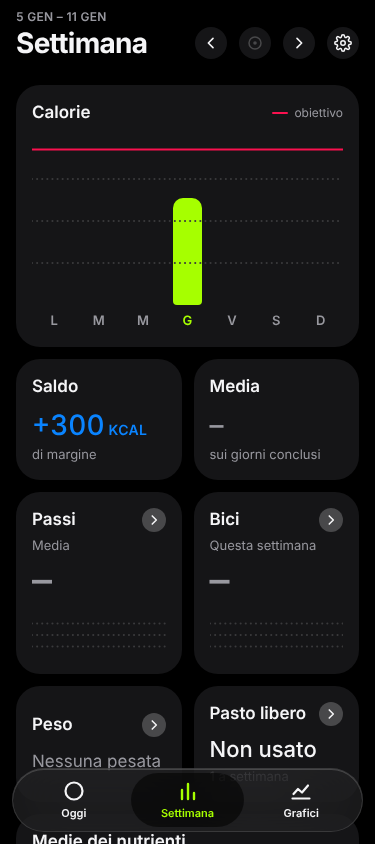
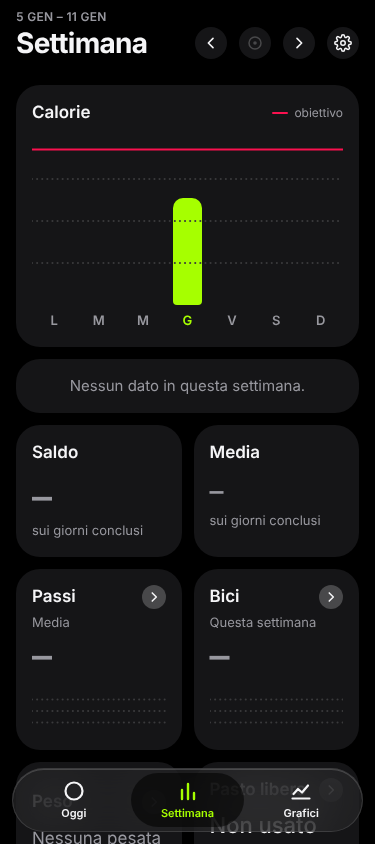
T6b.4 saldo della Settimana sui giorni conclusi
Claude-Session: https://claude.ai/code/session_01TQMVgMkE62napq6RZvzJ62

diff --git a/src/engine/week.ts b/src/engine/week.ts
@@ -27,7 +27,7 @@ export interface NutrientAverages {
 
 export interface WeekSummary {
   days: WeekDayRow[];
-  /** Saldo della regola (§3.3, con il tetto al margine) fino al giorno più recente con pasti, questo compreso; null se nessun giorno ha pasti. */
+  /** Saldo mostrato in Settimana (§3.3): la regola, con il tetto al margine, sui soli giorni conclusi con pasti (oggi escluso); null se non ce n'è nessuno. */
   balance: number | null;
   /** Media delle kcal reali sui giorni con pasti, escluso oggi (è in corso: abbasserebbe la media); null se nessun giorno è valido (§3.8). */
   avgKcal: number | null;
@@ -50,7 +50,7 @@ function mean(values: number[]): number | null {
 /**
  * Riepilogo della settimana (lunedì-domenica) che contiene `date`. I giorni mancanti sono considerati vuoti.
  * Se `today` è dato, l'obiettivo dei giorni dopo oggi è l'anteprima di §3.3 (`previewDayTarget`) e la media delle kcal
- * esclude il giorno di oggi (§3.8). Senza `today` nessun giorno è escluso. Il motore non legge la data da solo.
+ * e il saldo mostrato escludono il giorno di oggi (§3.8, §3.3). Senza `today` nessun giorno è escluso. Il motore non legge la data da solo.
  */
 export function weekSummary(date: DateKey, knownDays: readonly Day[], settings: WeekSettings, today?: DateKey): WeekSummary {
   const dates = weekDates(date);
@@ -67,7 +67,10 @@ export function weekSummary(date: DateKey, knownDays: readonly Day[], settings: 
     target: (today !== undefined && d.date > today ? previewDayTarget(d.date, today, days, settings) : dayTarget(d.date, days, settings)).total,
   }));
 
-  const balance = eatenDays.length === 0 ? null : runBalance(eatenDays, settings);
+  // Saldo mostrato: solo i giorni conclusi, cioè precedenti a oggi (oggi è in corso e i pasti ancora da fare sembrerebbero margine).
+  // Senza `today` nessun giorno è escluso. La regola dell'obiettivo del giorno (`weekBalanceBefore`) non cambia.
+  const concludedDays = eatenDays.filter((d) => today === undefined || d.date < today);
+  const balance = concludedDays.length === 0 ? null : runBalance(concludedDays, settings);
 
   const avgOf = (pick: (d: Day) => number): number | null => mean(eatenDays.map(pick));
   const avgNutrients: NutrientAverages | null =

diff --git a/src/engine/week.test.ts b/src/engine/week.test.ts
@@ -117,3 +117,32 @@ describe("media kcal sui giorni conclusi (§3.8, casi W, X, Y)", () => {
     expect(weekSummary(GIO, days, s, GIO).avgNutrients?.protein).toBe(60);
   });
 });
+
+describe("saldo mostrato in Settimana sui giorni conclusi (§3.3, casi AJ, AK, AL, AM)", () => {
+  it("caso AJ: lunedì 1.900; oggi è martedì, mangiate finora 600 → +200 (non 300)", () => {
+    const days = [day(LUN, [meal("a", 1900)]), day(MAR, [meal("b", 600)])];
+    expect(weekSummary(MAR, days, s, MAR).balance).toBe(200);
+  });
+  it("caso AK: oggi è lunedì, mangiate finora 600 → nessun saldo (trattino)", () => {
+    expect(weekSummary(LUN, [day(LUN, [meal("a", 600)])], s, LUN).balance).toBeNull();
+  });
+  it("caso AL: lunedì 2.500; oggi è martedì senza pasti → −400", () => {
+    expect(weekSummary(MAR, [day(LUN, [meal("a", 2500)])], s, MAR).balance).toBe(-400);
+  });
+  it("caso AM: settimana passata, lunedì 1.900 e domenica 2.000, altri giorni vuoti → +300 (tetto)", () => {
+    const days = [day(LUN, [meal("a", 1900)]), day("2026-01-11", [meal("d", 2000)])];
+    expect(weekSummary(LUN, days, s, "2026-01-20").balance).toBe(300);
+  });
+  it("oggi con pasti non entra nel saldo, anche se è l'unico giorno mangiato prima di un debito", () => {
+    // lunedì 2.500 (−400) e oggi 100: il saldo resta −400, oggi non lo riporta a +1.600 né a +300
+    const days = [day(LUN, [meal("a", 2500)]), day(MAR, [meal("b", 100)])];
+    expect(weekSummary(MAR, days, s, MAR).balance).toBe(-400);
+  });
+  it("senza `today` nessun giorno è escluso", () => {
+    expect(weekSummary(MAR, [day(LUN, [meal("a", 1900)]), day(MAR, [meal("b", 600)])], s).balance).toBe(300);
+  });
+  it("la funzione del saldo dell'obiettivo non cambia: l'obiettivo di martedì usa ancora i giorni precedenti", () => {
+    const days = [day(LUN, [meal("a", 2500)]), day(MAR, [meal("b", 600)])];
+    expect(weekSummary(MAR, days, s, MAR).days[1].target).toBe(2000);
+  });
+});

diff --git a/src/app/settimana-screen.tsx b/src/app/settimana-screen.tsx
@@ -74,7 +74,7 @@ export function SettimanaScreen() {
               <div className="mt-3">
                 {s.balance === null ? <Num value={dash} size="lg" tone="testo-secondario" /> : <Num value={formatSigned(s.balance)} unit="kcal" size="md" tone={s.balance > 0 ? "in-obiettivo" : "testo"} />}
               </div>
-              {s.balance !== null && <p className={sub}>{s.balance < 0 ? "da recuperare" : "di margine"}</p>}
+              <p className={sub}>sui giorni conclusi</p>
             </Card>
             <Card title="Media">
               <div className="mt-3">{s.avgKcal === null ? <Num value={dash} size="md" tone="testo-secondario" /> : <Num value={formatNumber(s.avgKcal)} unit="kcal" size="md" />}</div>

diff --git a/docs/DIARIO.md b/docs/DIARIO.md
@@ -82,6 +82,7 @@ Una riga per task chiuso.
 - T6b.1 · fatto · misurati con `npm run prova-comandi` Oggi (con pasti/senza/futuro), Settimana (con dati/senza/appena iniziata, anche altezza delle schede Calorie, Passi, Bici), scheda del piatto (AI↔Manuale, caricamento, errore), pannello Aggiungi (prima/dopo la proposta), Impostazioni (elenco↔pagina). Spostati e corretti con `tall` (altezza fissa, il corpo scorre dentro): Aggiungi, Modifica piatto, Impostazioni; la prova sul codice precedente falliva (12 controlli). Oggi e Settimana già fermi. Non corretto, da riferire: la scheda Calorie di Oggi è alta 227,5 px con la riga di composizione e 196 senza (BRIEF §2: la riga c'è solo se c'è qualcosa oltre alla base).
 - T6b.2 · fatto · «Attiva»/«Attivo» in Collegamenti nel colore In obiettivo (`valueTone` di `ValueRow`); nello scorrimento ogni azione è una tessera separata (raggio tessera, spazio di 8 px) nel componente condiviso `SwipeRow`, quindi Preferiti e Oggi (e gli elenchi dei pannelli della Settimana) hanno lo stesso aspetto; «Calorie di base» calcolate in Obiettivi mostrate «2.140» finché il campo non ha il fuoco (`shown` di `RowInput`), kcal della proposta AI col punto (`kcalText`); test del formato su 999, 1000, 2140, 12345; ricerca a mano dei numeri non formattati in `src/app`: nessun altro caso. `tools/prova-scorrimento.mjs`: il passo 7 tocca la parte visibile della riga aperta.
 - T6b.3 · fatto · `oggi-dopo-modifica-settimana` riparato (era lo scenario: dalla fase 6 si elimina scorrendo e l'etichetta è «Elimina il valore di Giovedì 8»; nessun difetto dell'app); `tools/screens.mjs` prosegue dopo uno scenario rotto, elenca i falliti in fondo (`XX … SCENARIO FALLITO`) ed esce con errore (provato con uno scenario volutamente rotto, poi tolto); rigenerati tutti i 16 scenari `nav-*` e `pasti-*` (10 PNG cambiati: nav-avviso-salute, nav-fine-pagina-375, nav-impostazioni-settimana, nav-intestazione-375, nav-oggi-altro-giorno, nav-oggi, pasti-libero-piu-piatti, pasti-quattro, pasti-tre-piatti, pasti-un-piatto).
+- T6b.4 · fatto · `weekSummary`: il saldo mostrato conta solo i giorni con pasti precedenti a oggi (senza `today` nessuno escluso); `runBalance`/`weekBalanceBefore` e i test esistenti invariati; nuovi test AJ (+200), AK (trattino), AL (−400), AM (+300) e tre di contorno. Scheda Saldo: «sui giorni conclusi» al posto di «di margine» / «da recuperare»; scenari `settimana-saldo-conclusi` e `settimana-saldo-trattino`.
 - T6.7 · fatto · `docs/REPORT-FASE-6.md` scritto; pull request verso main aperta a fine fase.
 
 ## Decisioni da confermare
@@ -188,6 +189,7 @@ Una riga per task chiuso.
 - Pannelli di inserimento (T6.4): nelle sotto-schermate di Aggiungi (Preferiti, Pesata, Uscita in bici) la X in alto a sinistra torna alla schermata principale di Aggiungi (non chiude tutto), come uno strato; il tasto Esc fa lo stesso. In una pagina interna dei pannelli della Settimana resta la freccia ‹. «Salva nei preferiti» del pannello Salva pasto è un tasto pieno nel corpo (non «Salva» nell'intestazione) per seguire TESTI.md. La riga «Pasto» è la scelta nativa del telefono (un menu a tendina di sistema), non quattro tasti. Il «+» dei Preferiti è nel colore Comando su fondo Comando al 20 %. «Giorno» dell'Uscita in bici usa il calendario nativo (negli screenshot appare mm/gg/aaaa per la lingua del browser di prova). Sul giorno futuro scritto a mano (non scelto dal calendario) «Salva» non salva e la riga Giorno mostra l'errore. L'importazione dei dati dal dispositivo (pannello «Importa») non è stata ridisegnata qui: non è un pannello di inserimento; resta per T6.5 se serve.
 - Impostazioni (T6.5): «Esporta i dati» nella prima pagina è una riga nel colore Comando che apre la pagina Dati (non scarica da sola, perché i file sono due). «Stime di oggi» e «Modello» compaiono solo se il server li conosce (stima attiva e, per il conteggio, accesso con Supabase). In «Importa i dati» il tasto «Rimuovi da questo dispositivo» è un tasto pieno come gli altri: il tasto pieno rosso non esiste nei componenti di §10.3.
 - Pulizia (T6.6): eccezioni del controllo di stile: `#000000` in `layout.tsx` (`themeColor`) e `manifest.ts` (i metadati non leggono le variabili CSS) e `font-mono` per il codice di Salute in Collegamenti. Il controllo dei testi guarda solo le schermate (`.tsx` in `src/app`): nomi interni come «libero» e «manuale» (valori di tipi e modalità) non sono testi mostrati e restano fuori dalla lista.
+- Saldo della Settimana (T6b.4): la dicitura «sui giorni conclusi» ha sostituito «di margine» / «da recuperare» sotto il numero (scelta più semplice, «come nella scheda Media»); il segno del numero dice se è margine o debito. Da confermare se si vogliono tenere anche le due diciture.
 
 ## Non verificato
 

diff --git a/docs/TASKS.md b/docs/TASKS.md
@@ -639,7 +639,7 @@ Stessa regola, cercata dove non è stata segnalata. Si controlla, non si ridiseg
 - Lo script non si ferma più al primo scenario rotto: prosegue ed elenca alla fine quelli falliti, uscendo con errore.
 - Si rigenerano i 13 scenari `nav-*` e `pasti-*` rimasti alla versione precedente alla fase 6. Nel report: l'elenco dei file rigenerati.
 
-### T6b.4 Saldo della Settimana sui giorni conclusi · da fare
+### T6b.4 Saldo della Settimana sui giorni conclusi · fatto
 Difetto visto sul telefono: con un solo giorno concluso (2.080 su 2.200, margine 120) la scheda Saldo mostrava 300, perché contava anche oggi, ancora in corso.
 - Motore: il saldo del riepilogo della settimana segue `docs/BRIEF.md` §3.3 "Saldo mostrato in Settimana": esclude oggi, che arriva già come parametro. **I test esistenti di questo saldo si aggiornano alla nuova regola.** La funzione del saldo usata per l'obiettivo del giorno, il recupero e l'anteprima non si tocca, e nessun altro test del motore cambia: i casi da A a Z e da AA ad AH restano identici.
 - Scheda Saldo: sotto il numero la dicitura "sui giorni conclusi", come nella scheda Media. Senza saldo, trattino e nessun colore.
